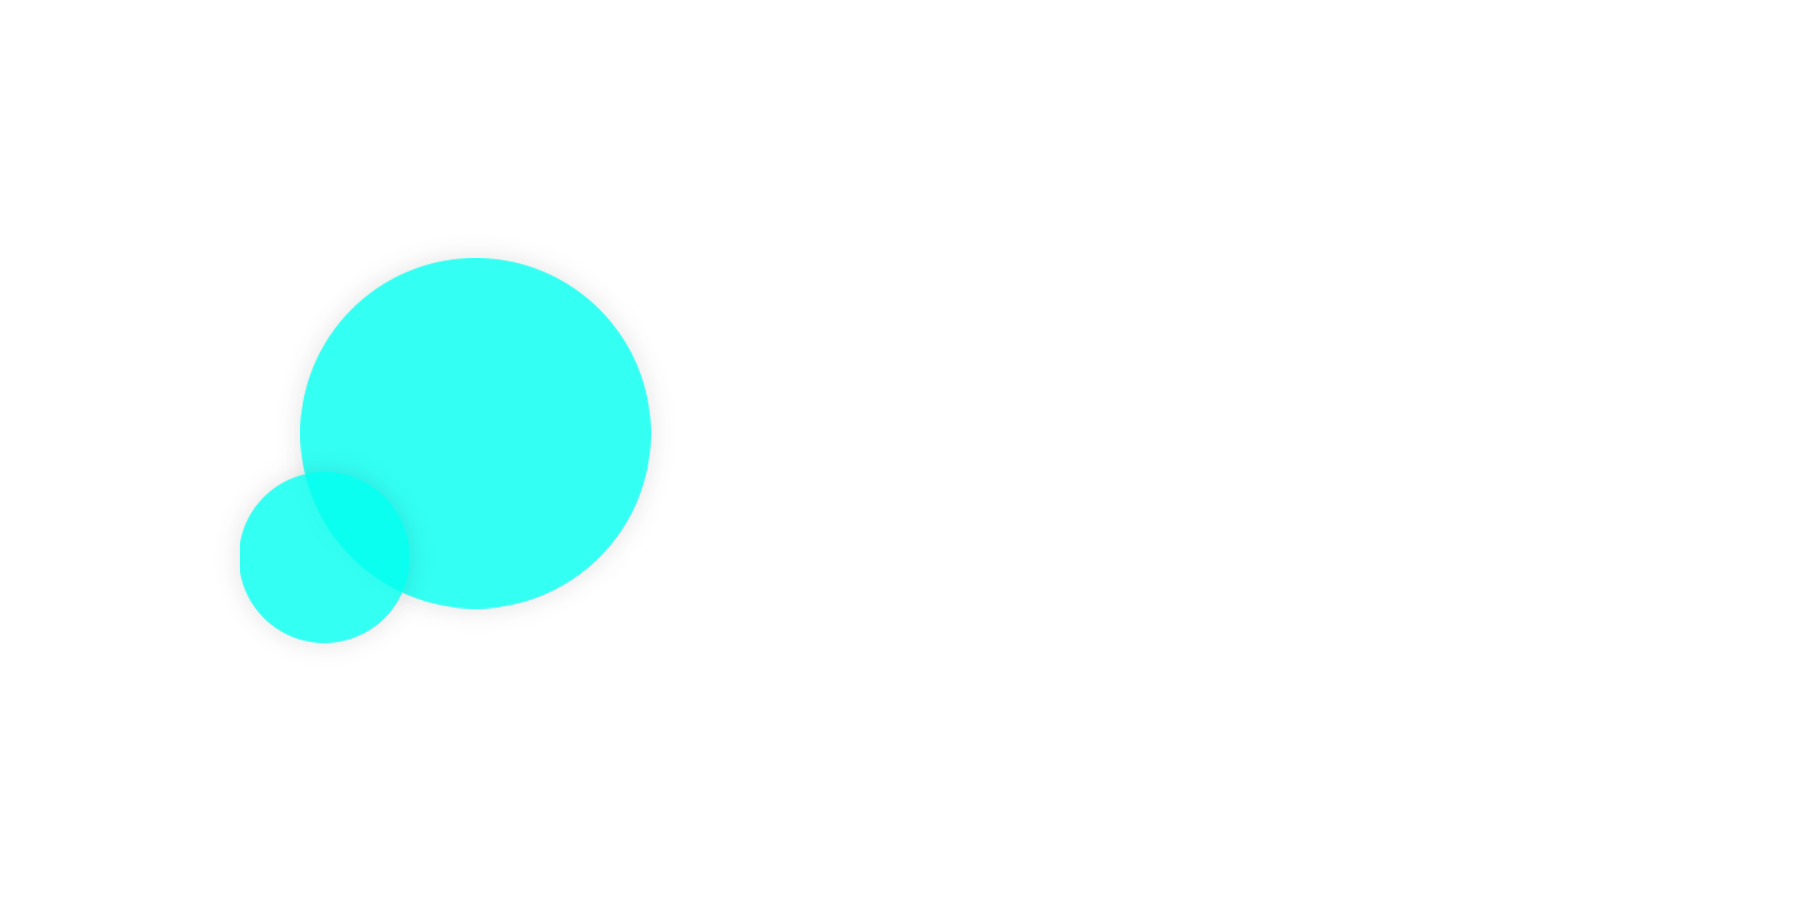
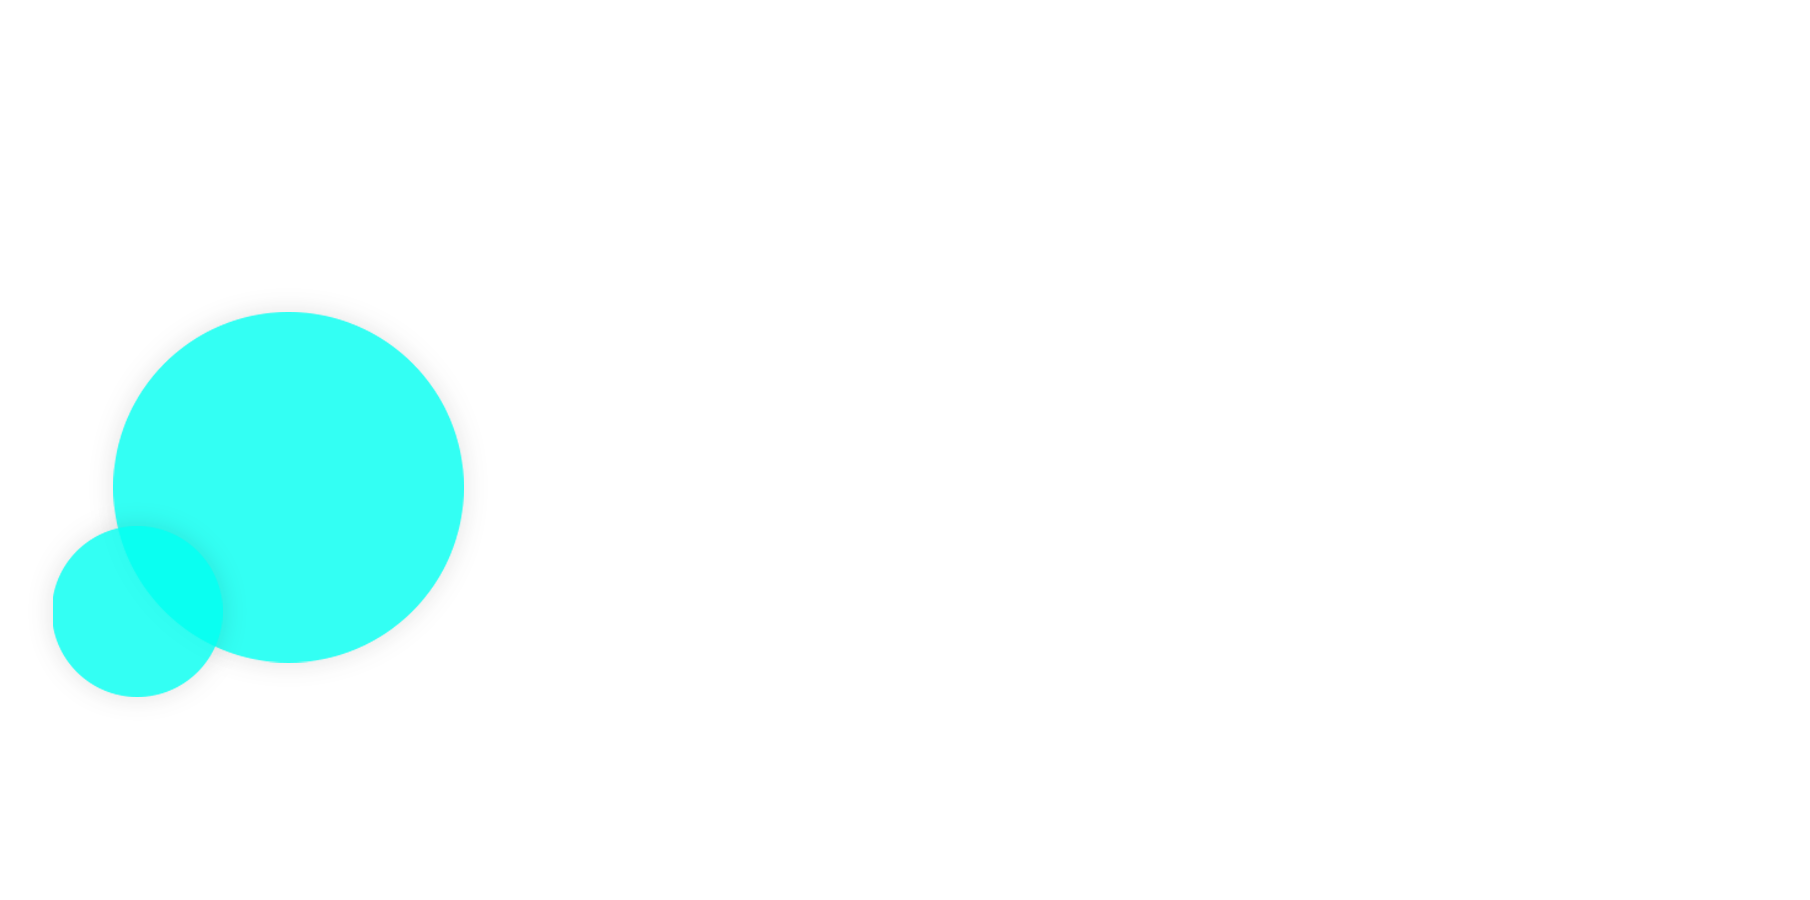
Правки 20
Дизайн (Фони, відступи, контейнер)

Changed region(s): [[0.0309, 0.28, 0.3713, 0.7778]]

diff --git a/css/style.css b/css/style.css
@@ -35,7 +35,7 @@ a {
 }
 
 .container {
-  max-width: 1430px;
+  max-width: 1230px;
   padding: 0 15px;
   margin: 0 auto;
 }
@@ -183,7 +183,8 @@ hero
 .hero__container {
   display: flex;
   align-items: center;
-  justify-content: space-between;
+  position: relative;
+  top: 50px;
 }
 
 .hero__container_vertical {
@@ -194,7 +195,7 @@ hero
 }
 .hero__title {
   font-weight: 400;
-  font-size: 26px;
+  font-size: 22px;
   line-height: 40px;
   color: #fff;
   margin-bottom: 40px;
@@ -205,7 +206,7 @@ hero
 }
 
 .hero__paragraph {
-  font-size: 24px;
+  font-size: 20px;
   line-height: 29px;
   color: #fff;
   margin-bottom: 40px;
@@ -213,7 +214,7 @@ hero
 }
 
 .hero__paragraph:first-child {
-  font-size: 45px;
+  font-size: 43px;
   font-weight: 900;
   line-height: 29px;
   color: rgba(255, 255, 255, 0.3);
@@ -264,6 +265,7 @@ hero
 
 .hero__image {
   animation: hero-animation 2s infinite alternate ease-in-out;
+  margin-left: auto;
 }
 
 @keyframes hero-animation {
@@ -341,6 +343,17 @@ about-us
 portfolio
 ------------------------------------------*/
 
+.dot__portfolio {
+  position: absolute;
+  white-space: nowrap;
+  width: 1px;
+  height: 1px;
+  overflow: hidden;
+  border: 0;
+  padding: 0;
+  margin: -51px;
+}
+
 .portfolio {
   background-image: url(../images/bg5.png), url(../images/bg5-2.png);
   background-repeat: no-repeat;
@@ -362,16 +375,16 @@ portfolio
 .portfolio__list {
   display: flex;
   flex-wrap: wrap;
-  margin-left: -70px;
-  margin-bottom: -70px;
+  margin-left: -30px;
+  margin-bottom: -30px;
 }
 .portfolio__item {
-  width: calc(100% / 3 - 70px);
-  margin-left: 70px;
-  margin-bottom: 70px;
+  width: calc(100% / 3 - 30px);
+  margin-left: 30px;
+  margin-bottom: 30px;
   box-shadow: 0px -1px 11px 1px rgba(0, 0, 0, 0.2);
-  -webkit-box-shadow: 0px -1px 11px 1px rgba(0, 0, 0, 0.2);
-  -moz-box-shadow: 0px -1px 11px 1px rgba(0, 0, 0, 0.2);
+  -webkit-box-shadow: 0px -1px 11px 1px rgba(0, 0, 0, 0.1);
+  -moz-box-shadow: 0px -1px 11px 1px rgba(0, 0, 0, 0.1);
   border-radius: 5px;
 }
 
@@ -409,16 +422,16 @@ team
   overflow: hidden;
   border: 0;
   padding: 0;
-  margin: -201px;
+  margin: -251px;
 }
 
 .team {
   padding-top: 100px;
-  padding-bottom: 120px;
+  padding-bottom: 100px;
   background-image: linear-gradient(
       to bottom,
-      rgba(0, 0, 0, 0.6),
-      rgba(0, 0, 0, 0.6)
+      rgba(44, 44, 44, 0.8),
+      rgba(44, 44, 44, 0.8)
     ),
     url(../images/bg4-2.jpg);
   background-repeat: no-repeat;
@@ -443,27 +456,27 @@ team
   display: flex;
   justify-content: space-between;
   display: flex;
-  margin-bottom: 40px;
+  margin-bottom: 30px;
   transition: 0.3s;
-  height: 300px;
-  overflow: hidden;
+  height: 270px;
   border-radius: 5px;
 }
 .team__developer {
   background-color: #fff;
-  height: 300px;
+  height: 270px;
   border-radius: 5px 0 0 5px;
   z-index: 1001;
   display: flex;
+  min-width: 300px;
   align-items: center;
 }
 .team__name {
-  font-size: 24px;
-  margin-bottom: 20px;
+  font-size: 20px;
+  margin-bottom: 30px;
   font-weight: 700;
 }
 .team__skills {
-  font-size: 20px;
+  font-size: 18px;
 }
 
 .team__skills-item {
@@ -472,36 +485,48 @@ team
 
 .team__developer_left {
   text-align: right;
-  padding: 0 65px 0 105px;
+  padding: 0 40px 0 85px;
 }
 
 .team__developer_right {
   text-align: left;
-  padding: 0 105px 0 65px;
+  padding: 0 85px 0 40px;
   border-radius: 0 5px 5px 0;
+}
+
+.team__card_image {
 }
 
 .team__developer_image {
   transition: 0.3s;
-  width: 300px;
-  height: 300px;
+  width: 270px;
+  height: 270px;
   overflow: hidden;
+}
+
+.team__developer_image.left {
+  border-radius: 0 5px 5px 0;
+}
+
+.team__developer_image.right {
+  border-radius: 5px 0 0 5px;
 }
 
 .team_image {
-  overflow: hidden;
 }
 
-.team__part_top:hover > .team__developer_image {
+.team__part_top:hover > .team__developer_image > .team__image {
   transform: scale(1.7);
 }
 
 .team__image_left {
   border-radius: 0 5px 5px 0;
+  transition: 0.3s;
 }
 
 .team__image.team__image_rigth {
   border-radius: 5px 0 0 5px;
+  transition: 0.3s;
 }
 
 .team__part_bottom {
@@ -524,8 +549,8 @@ team
   background-repeat: no-repeat;
   background-size: 200% 100%;
   background-attachment: scroll;
-  animation: portfoliobg-left 3s infinite alternate;
-  width: 300px;
+  animation: portfoliobg-left 2s infinite alternate;
+  width: 100%;
   margin-left: auto;
   padding: 15px 20px;
   text-align: right;
@@ -555,11 +580,11 @@ team
 }
 
 .dot__left {
-  left: 49.3%;
+  left: 49.1%;
 }
 
 .dot__right {
-  left: 50.7%;
+  left: 50.4%;
 }
 
 .team__item_left:hover ~ .dot__left {
@@ -583,8 +608,8 @@ team
   background-repeat: no-repeat;
   background-size: 200% 100%;
   background-attachment: scroll;
-  animation: portfoliobg-right 3s infinite alternate;
-  width: 300px;
+  animation: portfoliobg-right 2s infinite alternate;
+  width: 100%;
   padding: 15px 20px;
   text-align: left;
   border-radius: 5px 0 0 5px;
@@ -614,10 +639,10 @@ price
 
 @keyframes prise-animation {
   0% {
-    background-position: 85% -20px, right;
+    background-position: 80% -20px, right;
   }
   100% {
-    background-position: 85% 20px, right;
+    background-position: 80% 20px, right;
   }
 }
 

diff --git a/index.html b/index.html
@@ -85,7 +85,6 @@
           <p class="hero__line-paragraph">Слава Україні</p>
           <p class="hero__line-paragraph">Слава Україні</p>
         </div>
-        <div class="">
           <div class="container hero__container">
             <div class="hero__text-content">
               <p class="hero__paragraph">
@@ -110,10 +109,9 @@
               src="./images/p0-3.png"
               alt="Ілюстрація розробки"
               class="hero__image"
-              width="600"
+              width="500"
             />
           </div>
-        </div>
         <div id="openModal-gu" class="modal">
           <div class="modal-dialog">
             <div class="modal-content top">
@@ -190,7 +188,7 @@
         </div>
       </section>
       <!-- portfolio -->
-      <div class="dot__nav" id="portfolio"></div>
+      <div class="dot__portfolio" id="portfolio"></div>
       <section class="portfolio">
         <div class="container">
           <h2 class="portfolio__title">Портфоліо</h2>
@@ -272,12 +270,12 @@
                   </ul>
                 </div>
                 </div>
-                <div class="team__developer_image">
+                <div class="team__developer_image left">
                   <img
                     src="./images/p1.jpg"
                     alt="Тарасюк Василь"
                     class="team__image team__image_left"
-                    width="300"
+                    width="270"
                   />
                 </div>
               </div>
@@ -287,12 +285,12 @@
             </li>
             <li class="team__item_right">
               <div class="team__part_top">
-                <div class="team__developer_image">
+                <div class="team__developer_image right">
                   <img
                     src="./images/p2.jpg"
                     alt="Тарасюк Василь"
                     class="team__image team__image_rigth"
-                    width="300"
+                    width="270"
                   />
                 </div>
                 <div class="team__developer team__developer_right">
